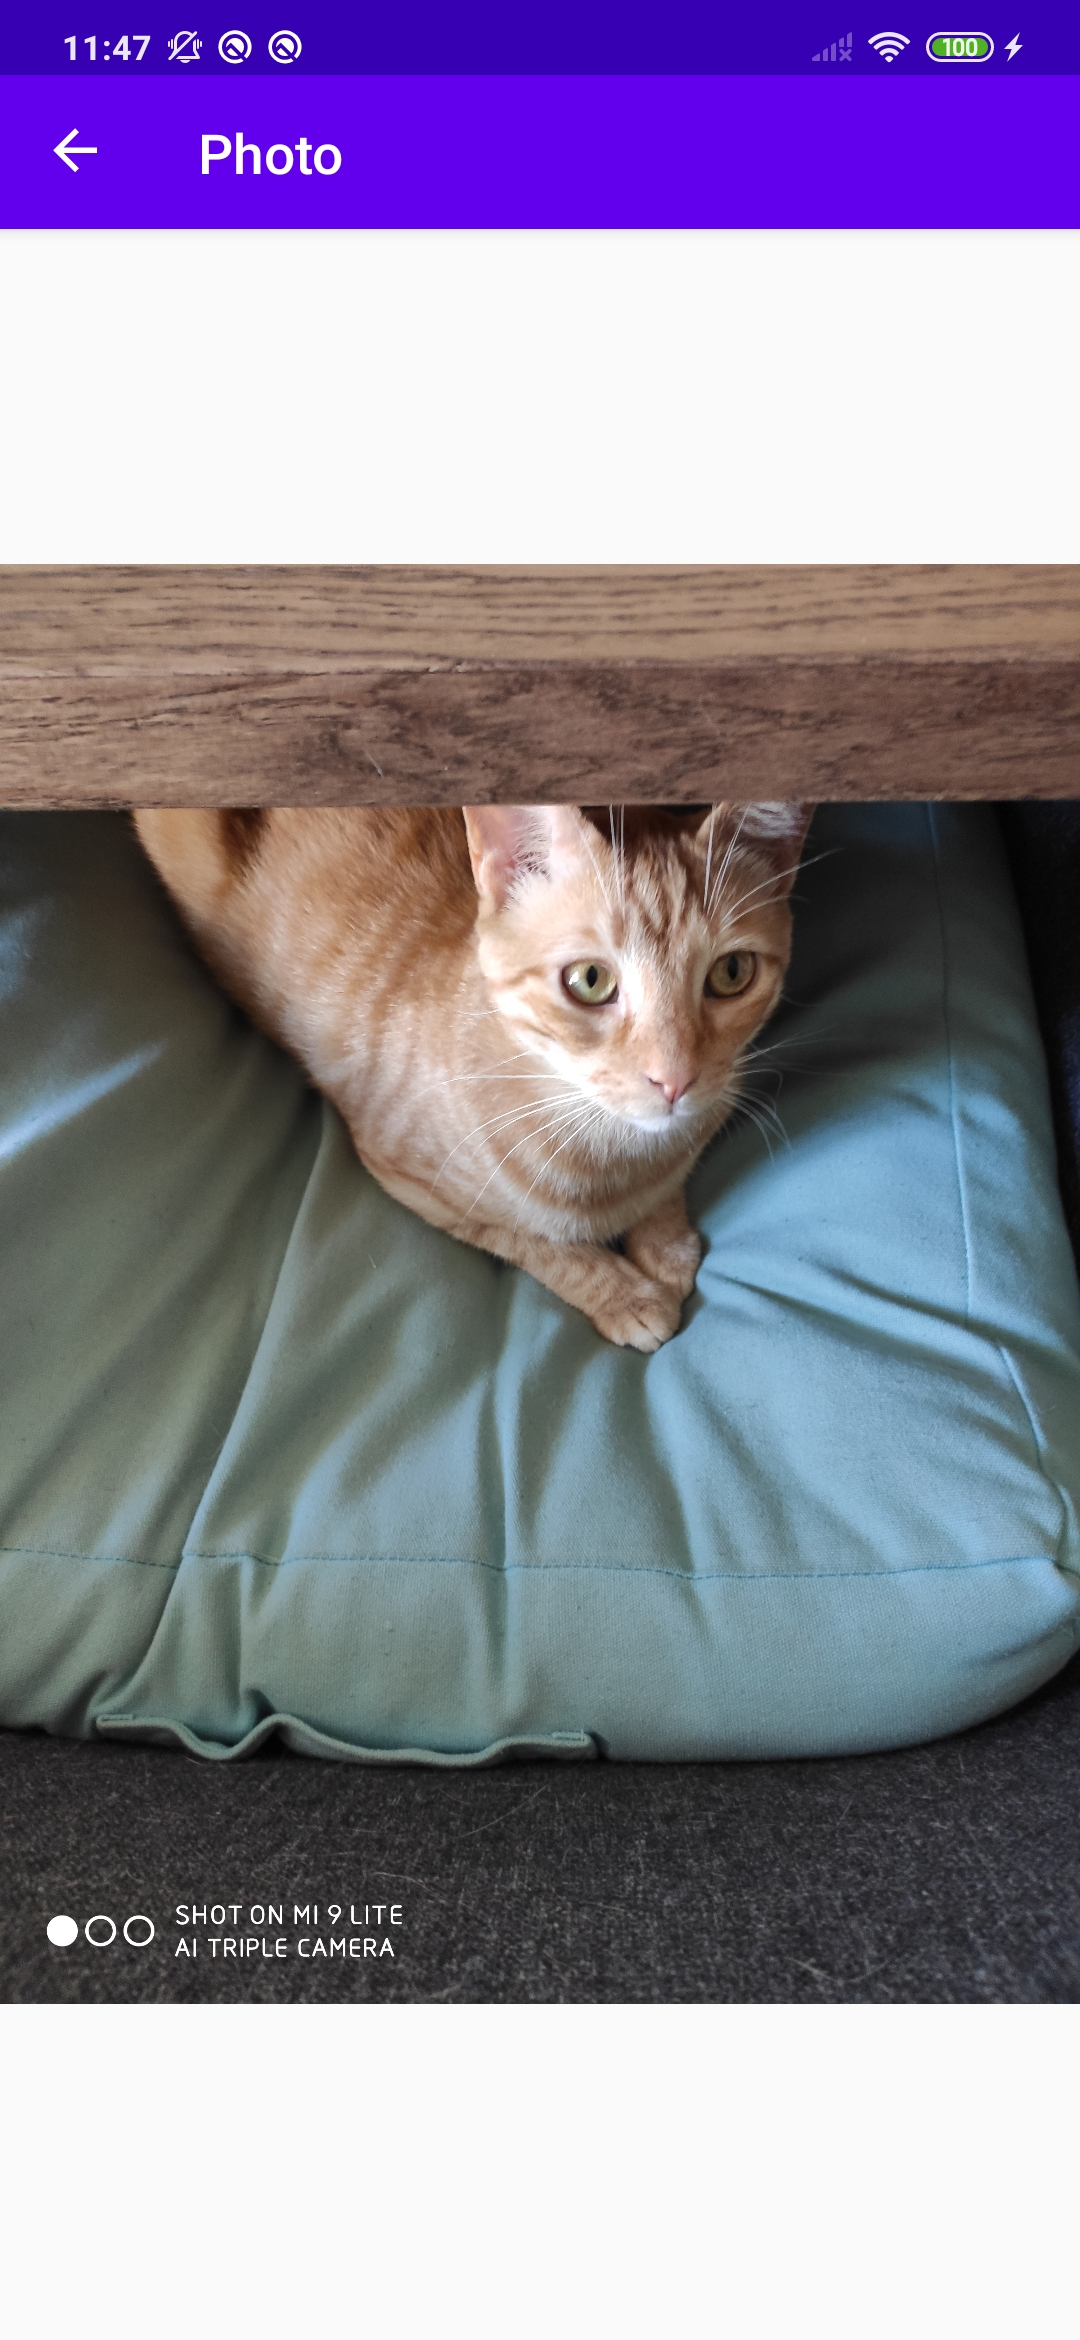
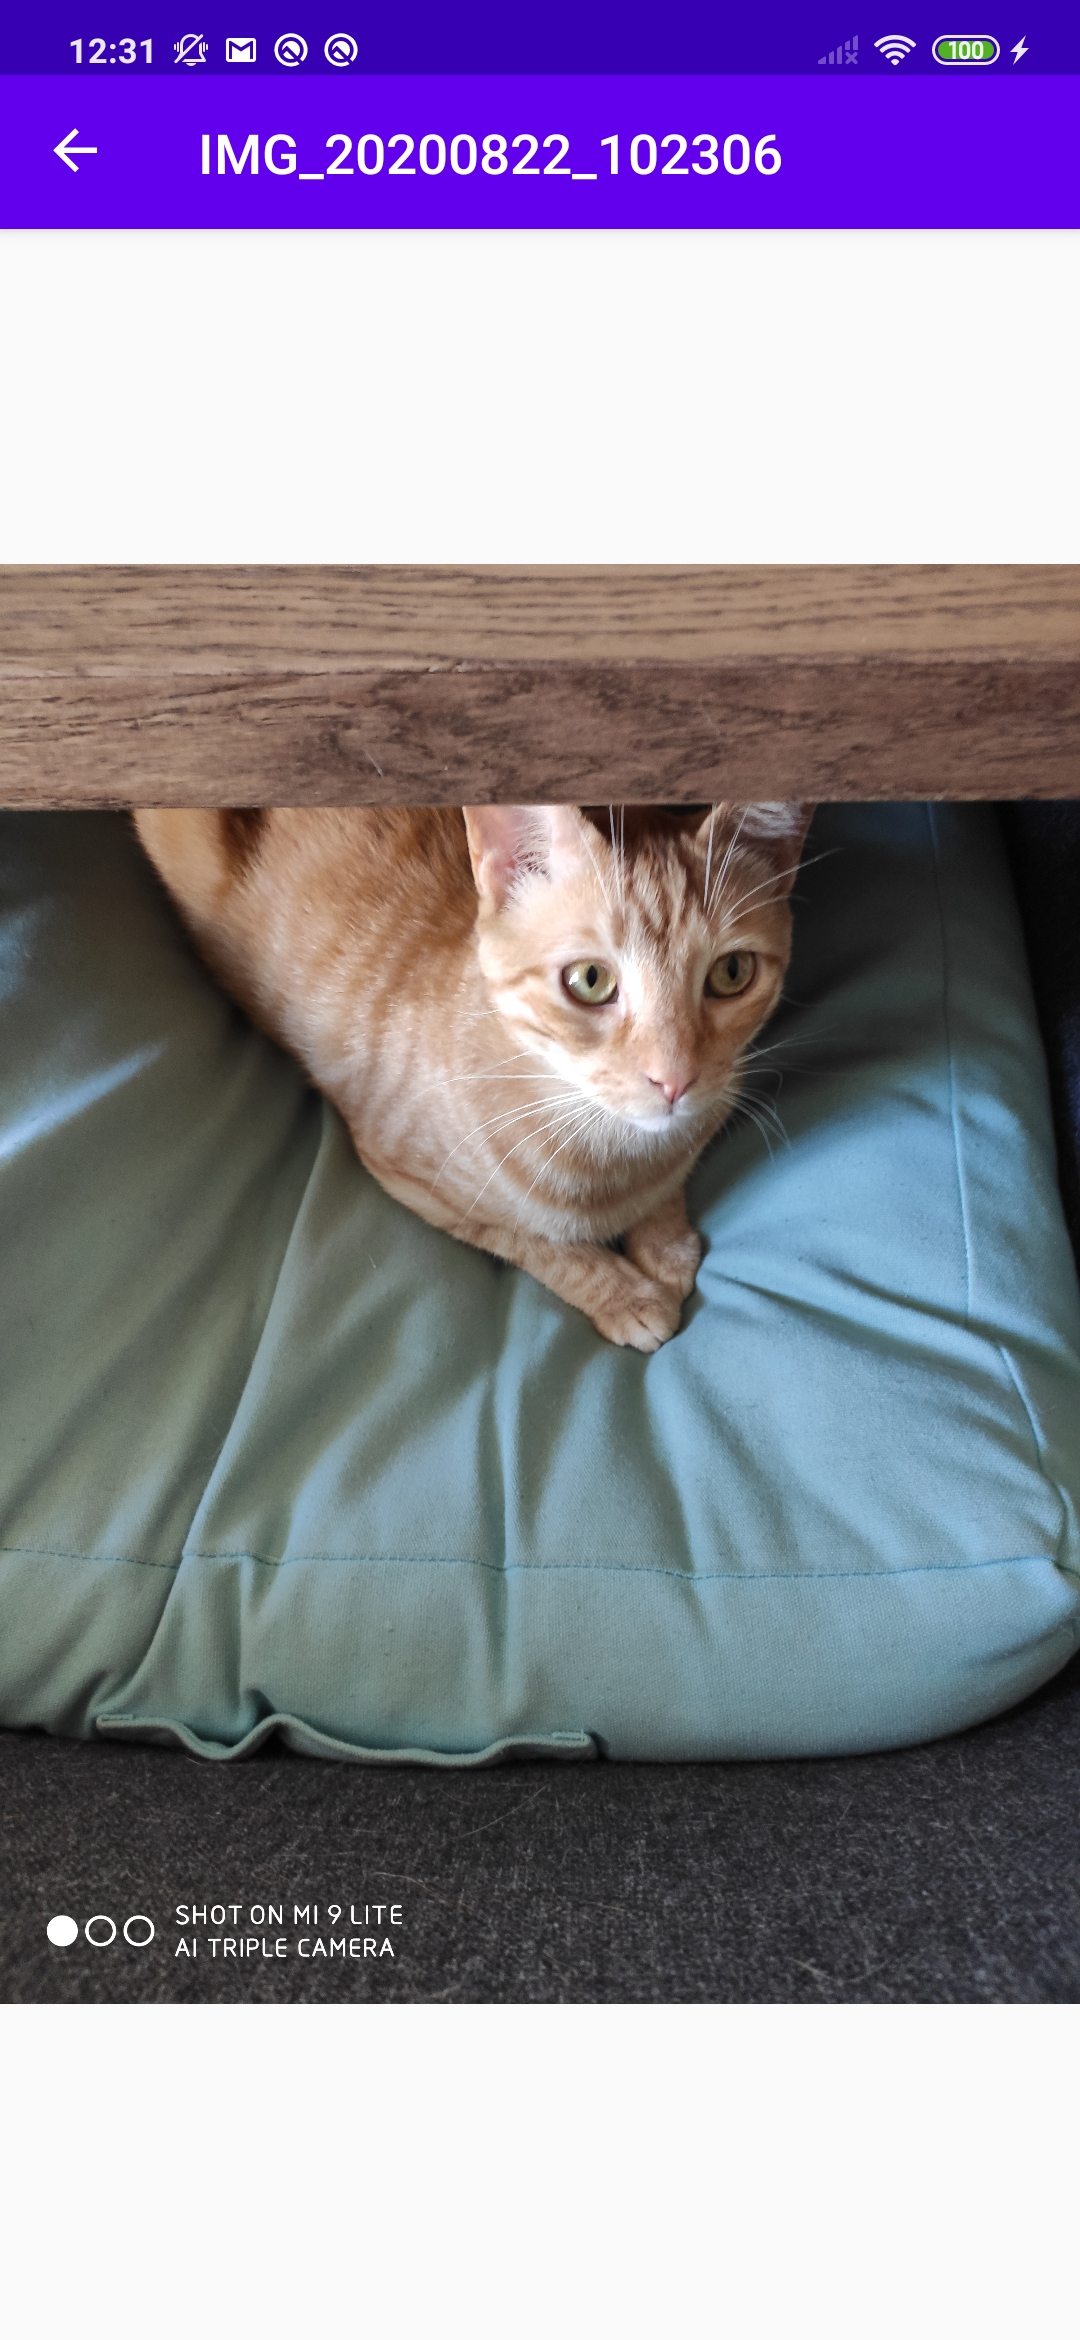
Updated README.md

Changed region(s): [[0.0611, 0.0, 0.7333, 0.0936], [0.7639, 0.0, 0.9472, 0.0312]]

diff --git a/app/src/main/java/net/filiperamos/photogrid/view/listscreen/PictureListAdapter.kt b/app/src/main/java/net/filiperamos/photogrid/view/listscreen/PictureListAdapter.kt
@@ -1,7 +1,6 @@
 package net.filiperamos.photogrid.view.listscreen
 
 import android.os.Build
-import android.util.Log
 import android.util.Size
 import android.view.LayoutInflater
 import android.view.View
@@ -30,21 +29,21 @@ class PictureListAdapter(private val imageList: ArrayList<PictureData>, val dele
     @RequiresApi(Build.VERSION_CODES.Q)
     override fun onBindViewHolder(holder: ListViewHolder, position: Int) {
         val pictureData = imageList[position]
-        Log.d(TAG, "$position: ${pictureData.id} | ${pictureData.contentUri.path}")
         val bmp = holder.itemView.context.contentResolver.loadThumbnail(
-            imageList[position].contentUri,
+            pictureData.contentUri,
             Size(250, 250),
             null
         )
 
         holder.view.imageView.setImageBitmap(bmp)
-        holder.view.imageIdTextView.text = "${imageList[position].id}"
+        holder.view.imageIdTextView.text = "${pictureData.id}"
+        holder.view.imageTitleTextView.text = pictureData.title
 
         holder.view.imageView.setOnClickListener {
             onImageClickListener(holder.view.root)
         }
         holder.view.imageView.setOnLongClickListener {
-            deletePicture(imageList[position].id)
+            deletePicture(pictureData.id)
             true
         }
     }
@@ -57,10 +56,11 @@ class PictureListAdapter(private val imageList: ArrayList<PictureData>, val dele
         notifyDataSetChanged()
     }
 
-    fun onImageClickListener(view: View) {
-        Log.d(TAG, "Click!")
-        val action = ListFragmentDirections.actionListFragmentToImageFragment()
+    private fun onImageClickListener(view: View) {
+        val title = view.imageTitleTextView.text.toString()
+        val action = ListFragmentDirections.actionListFragmentToImageFragment(title)
         action.imageId = view.imageIdTextView.text.toString().toLong()
+
         Navigation.findNavController(view).navigate(action)
     }
 

diff --git a/app/src/main/java/net/filiperamos/photogrid/viewmodel/PictureListViewModel.kt b/app/src/main/java/net/filiperamos/photogrid/viewmodel/PictureListViewModel.kt
@@ -7,6 +7,7 @@ import android.content.IntentSender
 import android.database.Cursor
 import android.os.Build
 import android.provider.MediaStore
+import android.util.Log
 import androidx.annotation.RequiresApi
 import androidx.lifecycle.MutableLiveData
 import kotlinx.coroutines.launch
@@ -30,7 +31,7 @@ class PictureListViewModel(application: Application) : BaseViewModel(application
             var pictureList = mutableListOf<PictureData>()
 
             val uri = MediaStore.Images.Media.EXTERNAL_CONTENT_URI
-            val projection = arrayOf(MediaStore.Images.Media._ID)
+            val projection = arrayOf(MediaStore.Images.Media._ID, MediaStore.Images.Media.TITLE)
             val sortOrder = "${MediaStore.Images.Media.DATE_TAKEN} ASC"
 
             getApplication<Application>().contentResolver.query(
@@ -51,16 +52,19 @@ class PictureListViewModel(application: Application) : BaseViewModel(application
         images = mutableListOf()
 
         val idColumn = cursor.getColumnIndexOrThrow(MediaStore.Images.Media._ID)
+        val titleColumn = cursor.getColumnIndexOrThrow(MediaStore.Images.Media.TITLE)
 
         while (cursor.moveToNext()) {
             val id = cursor.getLong(idColumn)
+            val title = cursor.getString(titleColumn)
+            Log.d(TAG, "$id title: $title")
 
             val contentUri = ContentUris.withAppendedId(
                 MediaStore.Images.Media.EXTERNAL_CONTENT_URI,
                 id
             )
 
-            val image = PictureData(id, contentUri)
+            val image = PictureData(id, title, contentUri)
             images.add(image)
 
         }

diff --git a/app/src/main/java/net/filiperamos/photogrid/viewmodel/PictureViewModel.kt b/app/src/main/java/net/filiperamos/photogrid/viewmodel/PictureViewModel.kt
@@ -20,7 +20,7 @@ class PictureViewModel(application: Application) : BaseViewModel(application) {
             var loadedPicture: PictureData? = null
 
             val uri = MediaStore.Images.Media.EXTERNAL_CONTENT_URI
-            val projection = arrayOf(MediaStore.Images.Media._ID)
+            val projection = arrayOf(MediaStore.Images.Media._ID, MediaStore.Images.Media.TITLE)
             val selection = "${MediaStore.Images.Media._ID} == ?"
             val selectionArgs = arrayOf("$id")
 
@@ -40,16 +40,18 @@ class PictureViewModel(application: Application) : BaseViewModel(application) {
 
     private fun getImageFromCursor(cursor: Cursor): PictureData? {
         val idColumn = cursor.getColumnIndexOrThrow(MediaStore.Images.Media._ID)
+        val titleColumn = cursor.getColumnIndexOrThrow(MediaStore.Images.Media.TITLE)
         var picture: PictureData? = null
 
         if (cursor.count > 0) {
             cursor.moveToFirst()
             val id = cursor.getLong(idColumn)
+            val title = cursor.getString(titleColumn)
             val contentUri = ContentUris.withAppendedId(
                 MediaStore.Images.Media.EXTERNAL_CONTENT_URI,
                 id
             )
-            picture = PictureData(id, contentUri)
+            picture = PictureData(id, title, contentUri)
         }
 
         return picture

diff --git a/app/src/main/java/net/filiperamos/photogrid/view/MainActivity.kt b/app/src/main/java/net/filiperamos/photogrid/view/MainActivity.kt
@@ -37,10 +37,13 @@ import net.filiperamos.photogrid.view.listscreen.ListFragment
  * Started @ 15:00 - 22/08/2020
  * Stopped @ 16:00 - 22/08/2020
  *
+ * Started @ 11:00 - 23/08/2020
+ * Stopped @ 12:00 - 2#/08/2020
+ *
  * Started @ 11:00 - 24/08/2020
  * Stopped @ 12:30 - 24/08/2020
  *
- * TOTAL: 8h
+ * TOTAL: 10h
  */
 class MainActivity : AppCompatActivity() {
     private lateinit var navController: NavController

diff --git a/app/src/main/java/net/filiperamos/photogrid/view/picturescreen/ImageFragment.kt b/app/src/main/java/net/filiperamos/photogrid/view/picturescreen/ImageFragment.kt
@@ -58,8 +58,14 @@ class ImageFragment : Fragment() {
                 selectedImageView.visibility = View.VISIBLE
 
                 selectedImageView.setImageURI(picture.contentUri)
+
+                setTitle(picture.title)
             }
         })
+    }
+
+    private fun setTitle(title: String){
+        activity?.title = title
     }
 
     companion object {

diff --git a/app/src/main/java/net/filiperamos/photogrid/view/listscreen/ListFragment.kt b/app/src/main/java/net/filiperamos/photogrid/view/listscreen/ListFragment.kt
@@ -127,6 +127,7 @@ class ListFragment : Fragment() {
         }
     }
 
+    @RequiresApi(Build.VERSION_CODES.Q)
     override fun onOptionsItemSelected(item: MenuItem): Boolean {
         return when (item.itemId) {
             R.id.actionTakePhoto -> {

diff --git a/app/src/main/java/net/filiperamos/photogrid/model/PictureData.kt b/app/src/main/java/net/filiperamos/photogrid/model/PictureData.kt
@@ -5,6 +5,7 @@ import androidx.recyclerview.widget.DiffUtil
 
 data class PictureData(
     val id: Long,
+    val title: String,
     val contentUri: Uri
 ) {
     companion object {

diff --git a/README.md b/README.md
@@ -1,1 +1,19 @@
 # PhotoGrid
+
+Kotlin Android app for a photo grid, similar to Instagram’s profile view, that displays photo thumbnails 3 to a row. Tapping on a thumbnail opens the full size of the image. Long press on a thumbnail allows the deletion of the photo.
+
+The app also has a button for taking photos using the device’s camera and adding them to the list.
+
+
+## Screens
+### App icon
+![App icon](https://raw.githubusercontent.com/Manhazito/PhotoGrid/master/screens/Screenshot_2020-08-24-11-48-03-011_com.miui.home.jpg)
+
+### Grid screen
+![Grid screen](https://raw.githubusercontent.com/Manhazito/PhotoGrid/master/screens/Screenshot_2020-08-24-11-46-24-884_net.filiperamos.photogrid.jpg)
+
+### Photo deletion
+![Photo deletion](https://raw.githubusercontent.com/Manhazito/PhotoGrid/master/screens/Screenshot_2020-08-24-11-46-41-461_net.filiperamos.photogrid.jpg)
+
+### Full size view
+![Full size view](https://raw.githubusercontent.com/Manhazito/PhotoGrid/master/screens/Screenshot_2020-08-24-11-47-50-264_net.filiperamos.photogrid.jpg)
